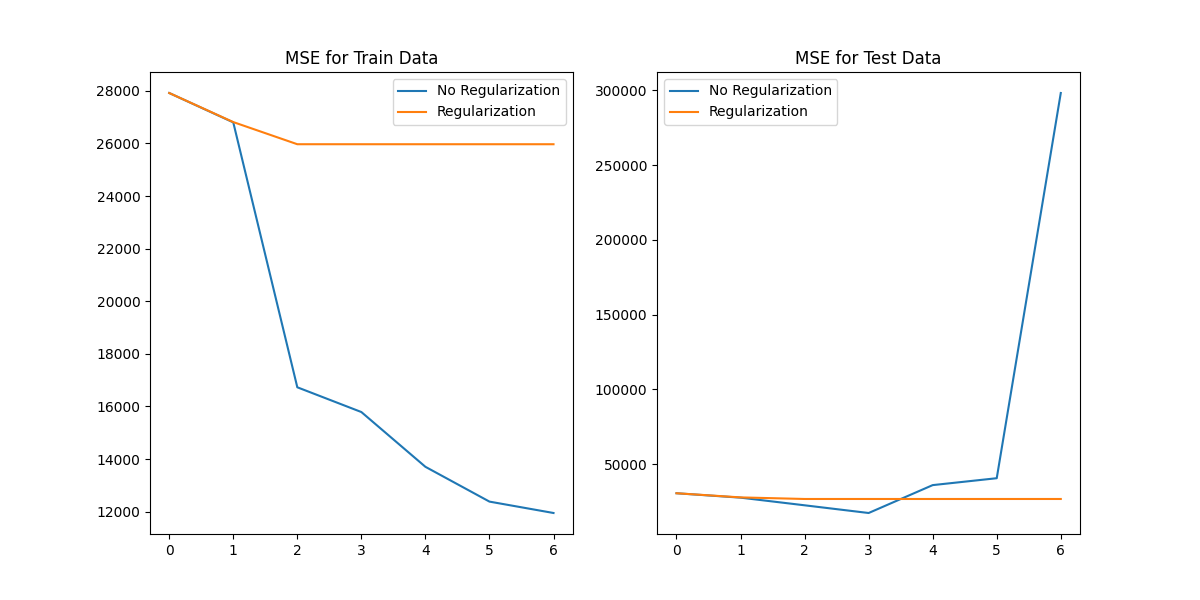
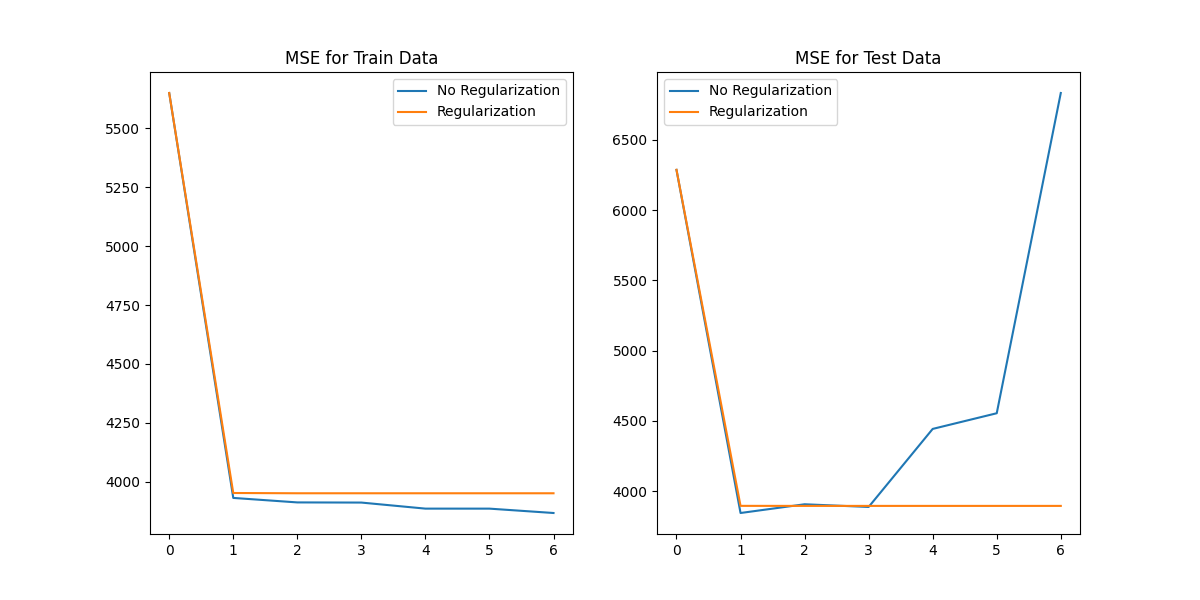
fix: correct map non linear method

diff --git a/Assignment1/basecode/script.py b/Assignment1/basecode/script.py
@@ -118,11 +118,13 @@ def mapNonLinear(x,p):
     # Xp - (N x (p+1)) 
 	
     # IMPLEMENT THIS METHOD
+
     N = x.shape[0]
-    Xp = np.zeros((N, p))
-    
-    for i in range(1, p + 1):
-        Xp[:, i-1] = x**i
+    x = x.reshape((N, 1))
+    Xp = np.zeros((N, p+1))
+
+    for i in range(p + 1):
+        Xp[:, i] = x[:, 0]**i
     return Xp
 
 # Main script
@@ -239,7 +241,7 @@ if __name__ == "__main__":
 
     # Problem 5
     pmax = 7
-    lambda_opt = 0.055 # REPLACE THIS WITH lambda_opt estimated from Problem 3
+    lambda_opt = 0.06 # REPLACE THIS WITH lambda_opt estimated from Problem 3
     mses5_train = np.zeros((pmax,2))
     mses5 = np.zeros((pmax,2))
     for p in range(pmax):
